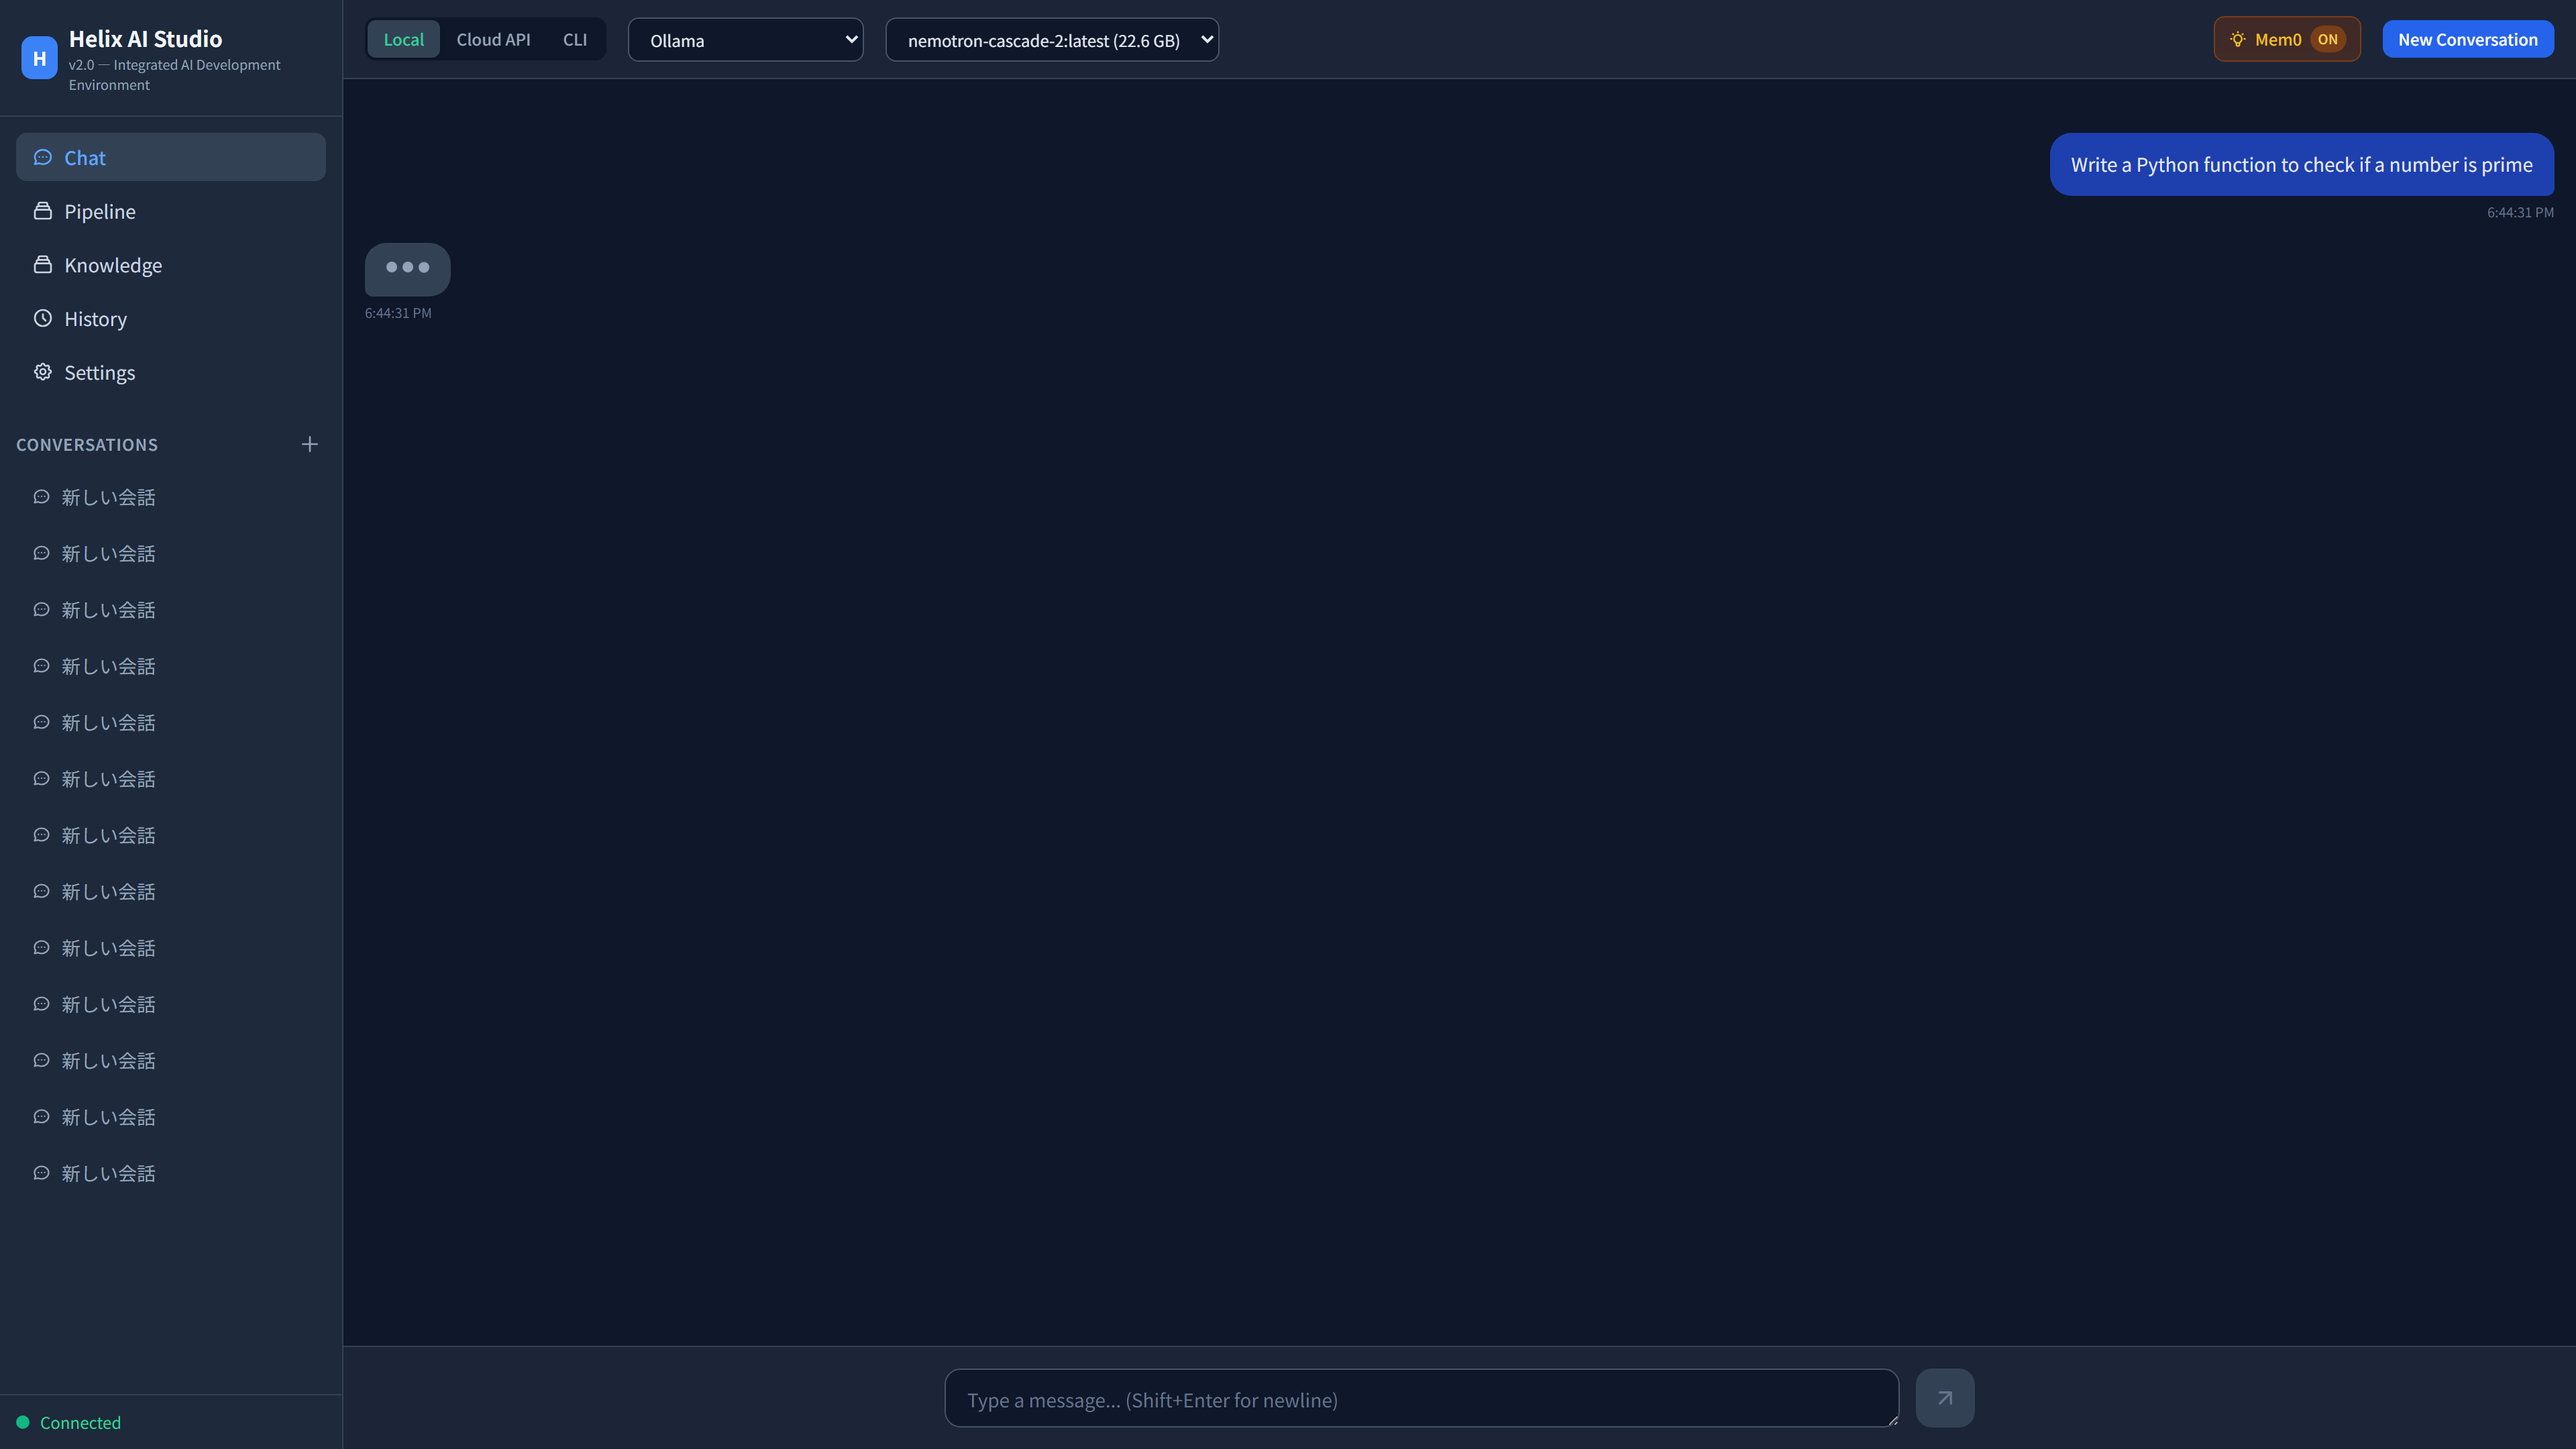
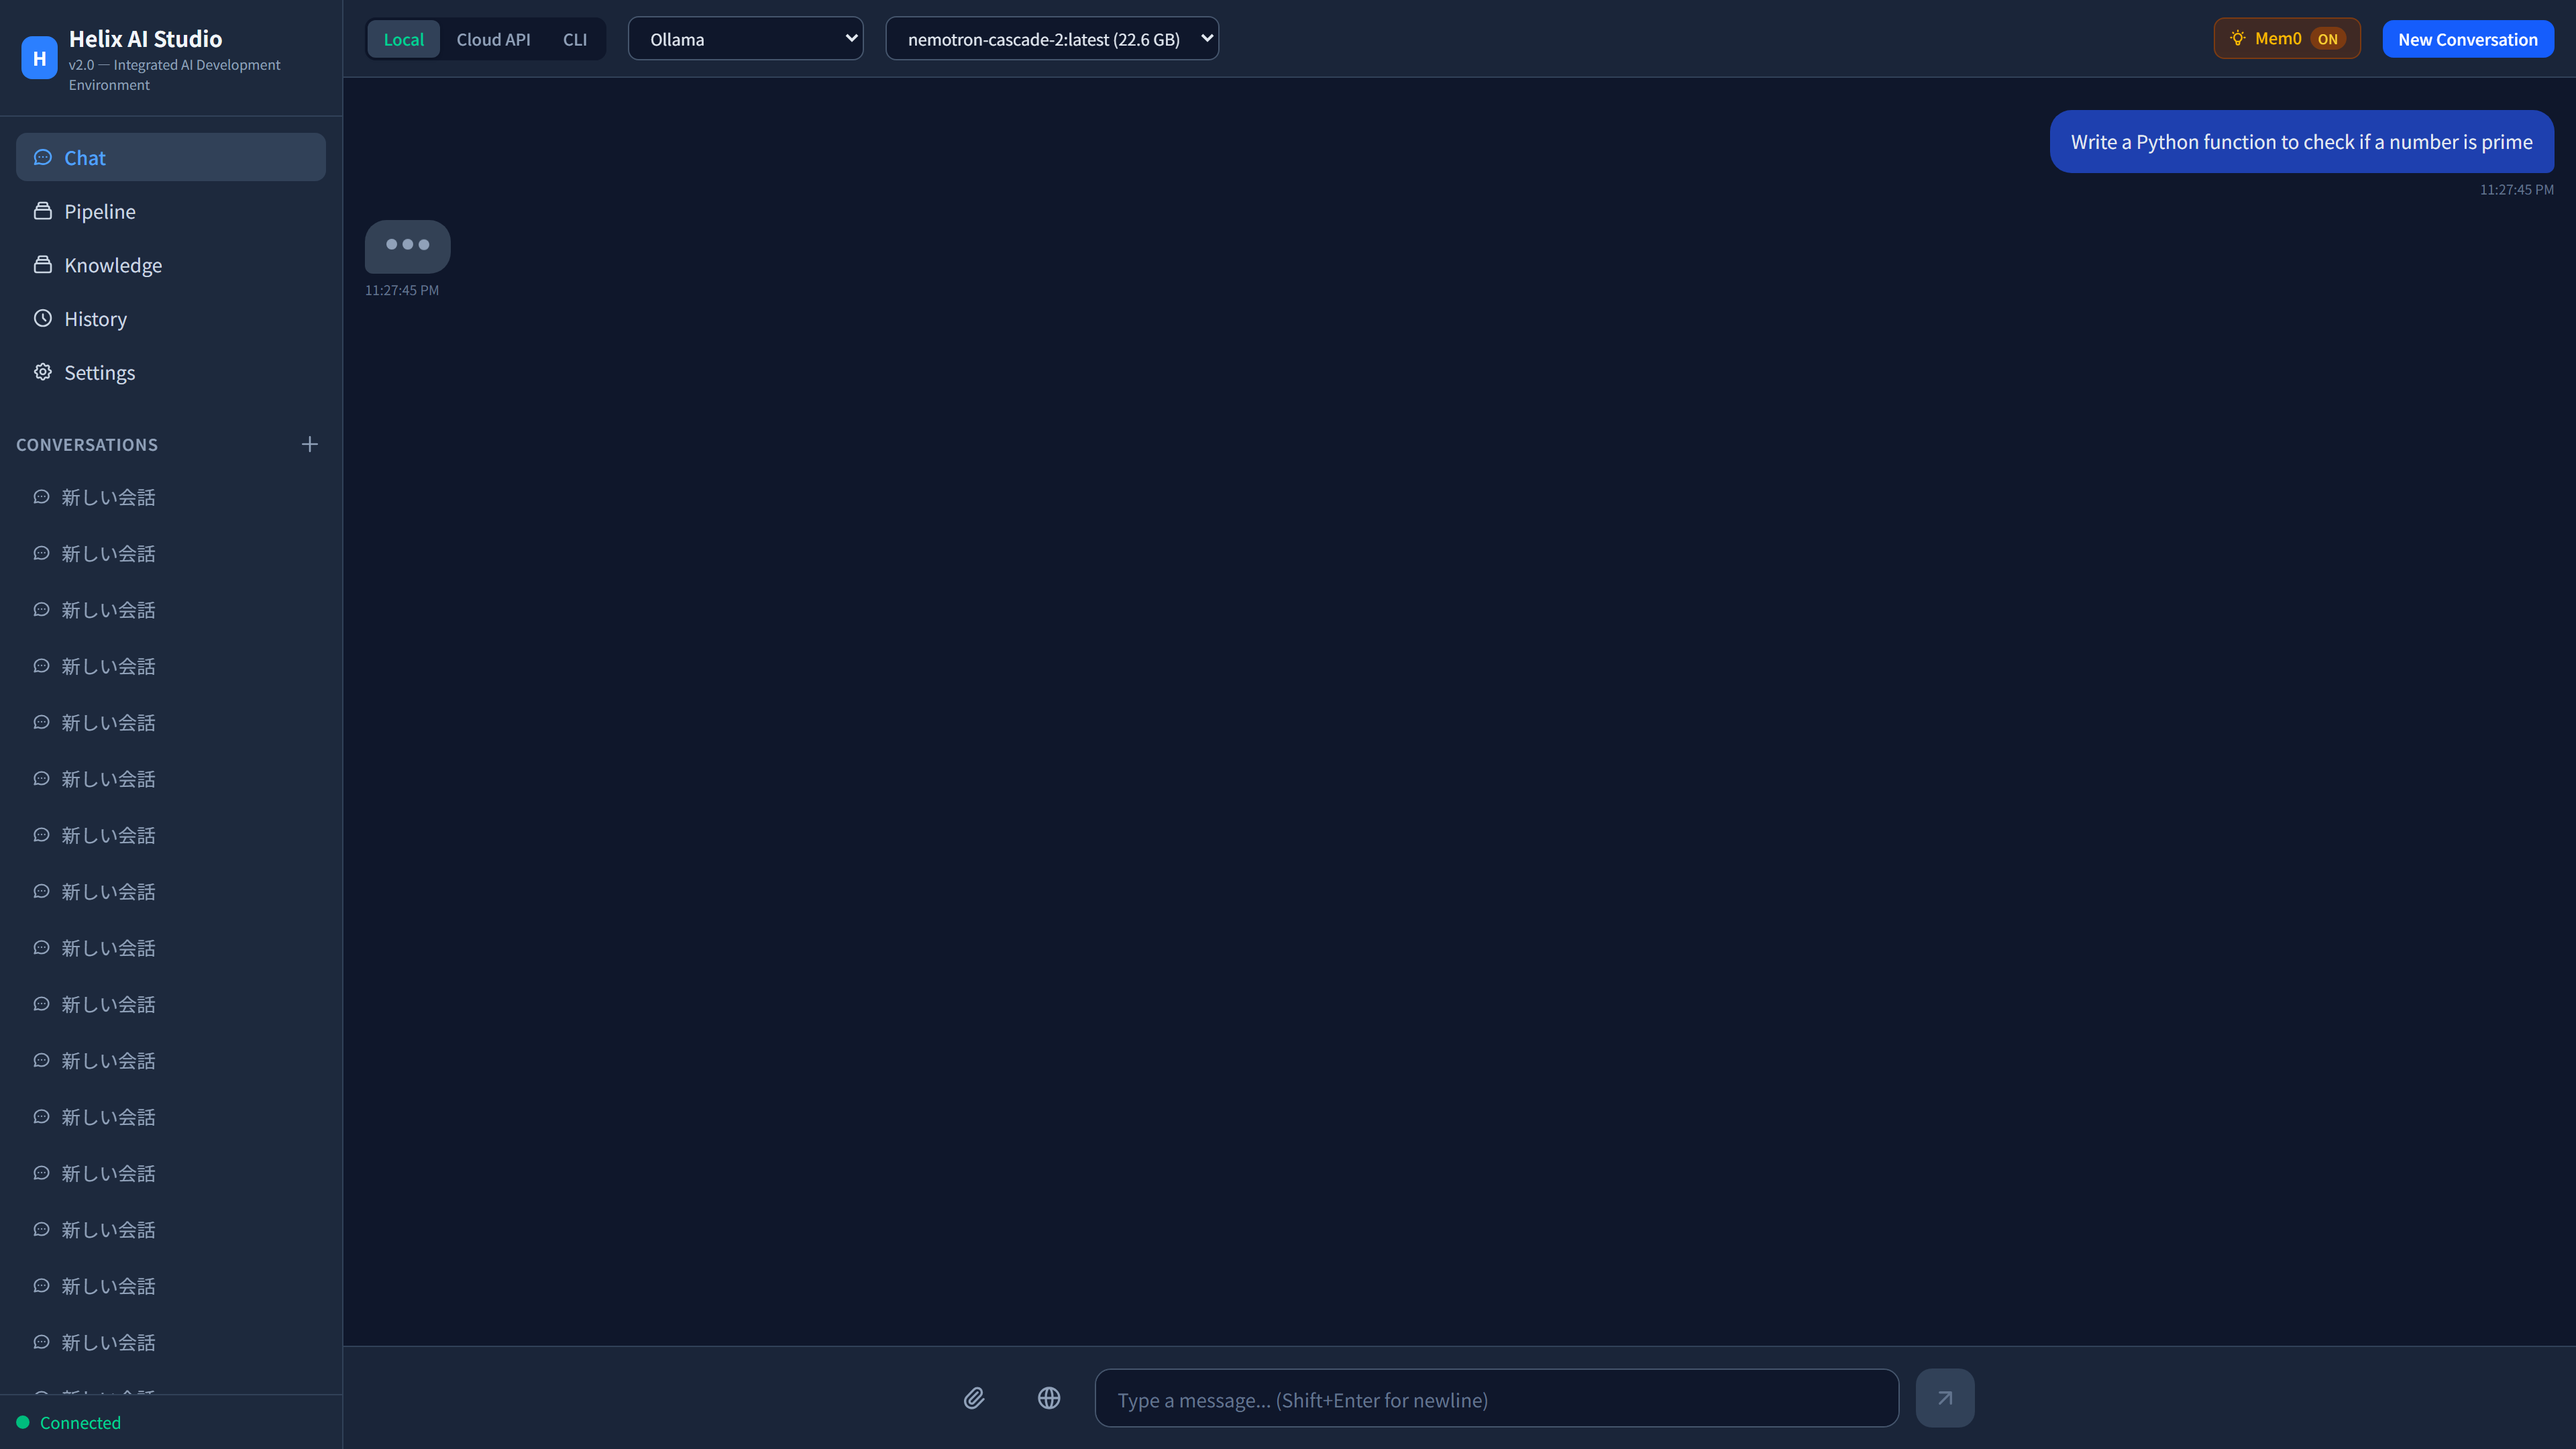
デモ素材全面更新 — 最新UI + Web検索デモ追加
- 英語/日本語 各9ファイル（スクリーンショット5枚 + GIF4本）
- 新規: search_demo.gif（🌐ボタンON→質問→Web検索結果付き回答）
- 設定画面: APIキー非表示で撮影
- README.md / README.ja.md: Web検索デモセクション追加

diff --git a/README.md b/README.md
@@ -45,6 +45,12 @@ Real-time WebSocket streaming with Ollama. Type a prompt, hit send, and watch th
 
 Switch between Local (Ollama), Cloud API (Claude/OpenAI), and CLI (Claude Code/Codex/Gemini) with one click. Models auto-load per provider.
 
+### Web Search — LLM Auto-Search
+
+![Web Search Demo](docs/images/en/gh_search_demo.gif)
+
+Click the 🌐 button to enable web search. The LLM can also autonomously decide to search when it needs current information (tool-use capable models only).
+
 ### App Tour — All Features
 
 ![App Tour](docs/images/en/gh_navigation_demo.gif)
